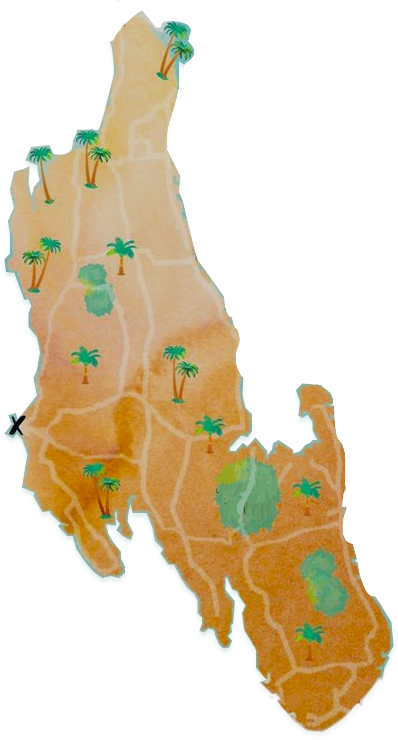
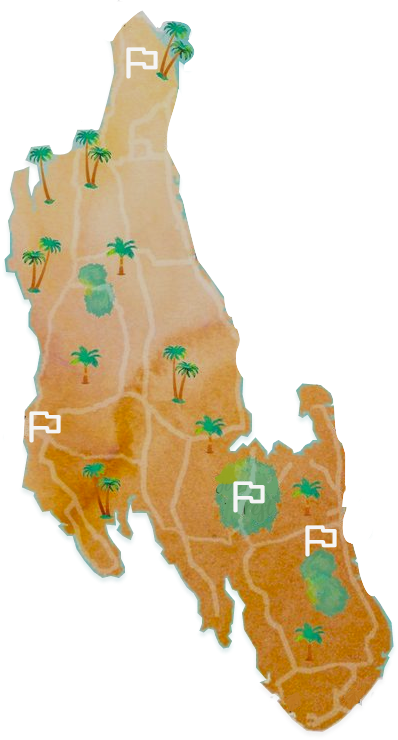
added flags on map and areas for 3 more locations

diff --git a/index.html b/index.html
@@ -3,6 +3,8 @@
   <head>
     <meta charset="UTF-8" />
     <meta name="viewport" content="width=device-width, initial-scale=1.0" />
+    <script src="https://cdn.jsdelivr.net/npm/@floating-ui/core@1.6.5"></script>
+    <script src="https://cdn.jsdelivr.net/npm/@floating-ui/dom@1.6.8"></script>
     <link rel="stylesheet" href="./css/style.css" />
     <title>Zanzibar memories</title>
   </head>
@@ -22,7 +24,8 @@
         <img src="images/island.png" usemap="#image-map" />
         <map name="image-map">
           <area
-            class="stone-town-area"
+            id="button"
+            aria-describedby="tooltip"
             target="_blank"
             alt="stone town"
             title="Stone town"
@@ -34,8 +37,24 @@
             target="_blank"
             alt="nungwi"
             title="Nungwi"
-            href="./stoneTown.html"
-            coords="118,22,15"
+            href="#"
+            coords="118,48,15"
+            shape="circle"
+          />
+          <area
+            target="_blank"
+            alt="Josani forest"
+            title="Josani forest"
+            href="#"
+            coords="199,402,15"
+            shape="circle"
+          />
+          <area
+            target="_blank"
+            alt="Paje"
+            title="Paje"
+            href="#"
+            coords="256,438,15"
             shape="circle"
           />
         </map>

diff --git a/css/style.css b/css/style.css
@@ -48,7 +48,6 @@ body {
   height: 100%;
   transition: transform 1s;
   filter: drop-shadow(3px 4px 6px black);
-  background-color: antiquewhite;
 }
 
 .main__zanzibar-map img:hover {
@@ -122,11 +121,4 @@ body {
 }
 .back-link__svg {
   margin-right: 5px;
-}
-
-.stone-town-area::after {
-  content: "";
-  width: 10px;
-  height: 10px;
-  background-color: blueviolet;
 }/*# sourceMappingURL=style.css.map */

diff --git a/dist/style.css b/dist/style.css
@@ -48,7 +48,6 @@ body {
   height: 100%;
   transition: transform 1s;
   filter: drop-shadow(3px 4px 6px black);
-  background-color: antiquewhite;
 }
 
 .main__zanzibar-map img:hover {
@@ -122,11 +121,4 @@ body {
 }
 .back-link__svg {
   margin-right: 5px;
-}
-
-.stone-town-area::after {
-  content: "";
-  width: 10px;
-  height: 10px;
-  background-color: blueviolet;
 }

diff --git a/style.scss b/style.scss
@@ -47,7 +47,6 @@ body {
   height: 100%;
   transition: transform 1s;
   filter: drop-shadow(3px 4px 6px black);
-  background-color: antiquewhite;
 }
 
 .main__zanzibar-map img:hover {
@@ -124,11 +123,4 @@ body {
   &__svg {
     margin-right: 5px;
   }
-}
-
-.stone-town-area::after {
-  content: "";
-  width: 10px;
-  height: 10px;
-  background-color: blueviolet;
 }
